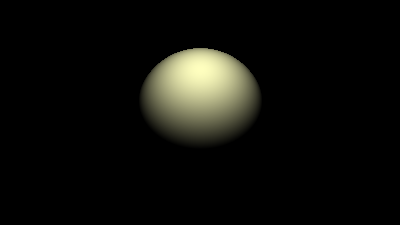
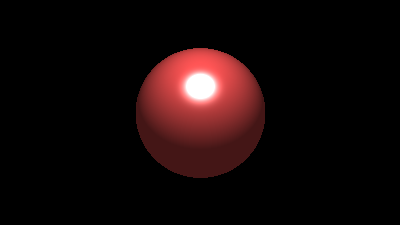
finish specular + ambient

Changed region(s): [[0.33, 0.1867, 0.66, 0.8089]]

diff --git a/src/scene.rs b/src/scene.rs
@@ -30,7 +30,7 @@ impl Scene {
         self.lights.push(light)
     }
 
-    pub fn cast_ray(&self, u: f32, v: f32) -> (Vector3<f32>, Option<Rc<dyn ObjectsTrait>>) {
+    pub fn cast_ray(&self, u: f32, v: f32) -> (Vector3<f32>, Option<Rc<dyn ObjectsTrait>>, Ray) {
         let target = self.camera.top_left_start + u * self.camera.x_axis - v * self.camera.y_axis;
         let ray = Ray::new(self.camera.origin, (target - self.camera.origin).normalize());
 
@@ -51,23 +51,35 @@ impl Scene {
 
         let intersection_point = ray.at(min_t);
 
-        return (intersection_point, min_obj);
+        return (intersection_point, min_obj, ray);
     }
 
-    pub fn color_ray(&self, intersection_point: Vector3<f32>, obj: &Rc<dyn ObjectsTrait>,  offset: usize, pixels: &mut Vec<u8>) -> () {
+    pub fn color_ray(&self, intersection_point: Vector3<f32>, obj: &Rc<dyn ObjectsTrait>, ray: &Ray, offset: usize, pixels: &mut Vec<u8>) -> () {
         
         let normal = obj.get_normal(intersection_point).normalize();
         let material_color = obj.get_texture(intersection_point);
 
-        let mut diffuse_light_intensity = 0.0 as f32;
+        let mut diffuse = Vector3::<f32>::zeros();
+        let mut specular = Vector3::<f32>::zeros();
+        let ambient = material_color * 0.9;
 
         for light in &self.lights {
-            let light_dir = (intersection_point - light.position).normalize();
-            let dot_prod_res = (-light_dir.dot(&normal)).clamp(0.0, 1.0);
-            diffuse_light_intensity += light.intensity * dot_prod_res;
+
+            let light_dir = (light.position - intersection_point).normalize();
+
+            diffuse += {
+                let dot_prod = light_dir.dot(&normal).clamp(0.0, 1.0);
+                material_color * light.intensity * dot_prod
+            };
+
+            specular = specular.add_scalar({
+                let reflection = (ray.direction - (2.0 * ray.direction.dot(&normal) * normal)).normalize();
+                let dot_prod = light_dir.dot(&reflection).clamp(0.0, 1.0).powf(10.0);
+                light.intensity * dot_prod
+            });
         }
         
-        let pixel_color = material_color * diffuse_light_intensity;
+        let pixel_color = diffuse + specular + ambient;
 
         pixels[offset * 3] = (255.0 * pixel_color.x)  as u8;
         pixels[offset * 3 + 1] = (255.0 * pixel_color.y) as u8;

diff --git a/src/main.rs b/src/main.rs
@@ -39,7 +39,7 @@ fn main() {
         Rc::new(Sphere {
             center: Vector3::new(0.0, 0.0, 7.0),
             radius: 1.0,
-            textmat: ivory.clone()
+            textmat: red.clone()
         })
     );
 
@@ -58,8 +58,8 @@ fn main() {
             let u = x as f32 / canvas_width as f32;
             let v = y as f32 / canvas_height as f32;
 
-            if let (intersect_point, Some(min_obj)) = scene.cast_ray(u, v) {
-                scene.color_ray(intersect_point, &min_obj, y * canvas_width + x, &mut pixels);     
+            if let (intersect_point, Some(min_obj), ray) = scene.cast_ray(u, v) {
+                scene.color_ray(intersect_point, &min_obj, &ray, y * canvas_width + x, &mut pixels);     
             }
         }
     }
